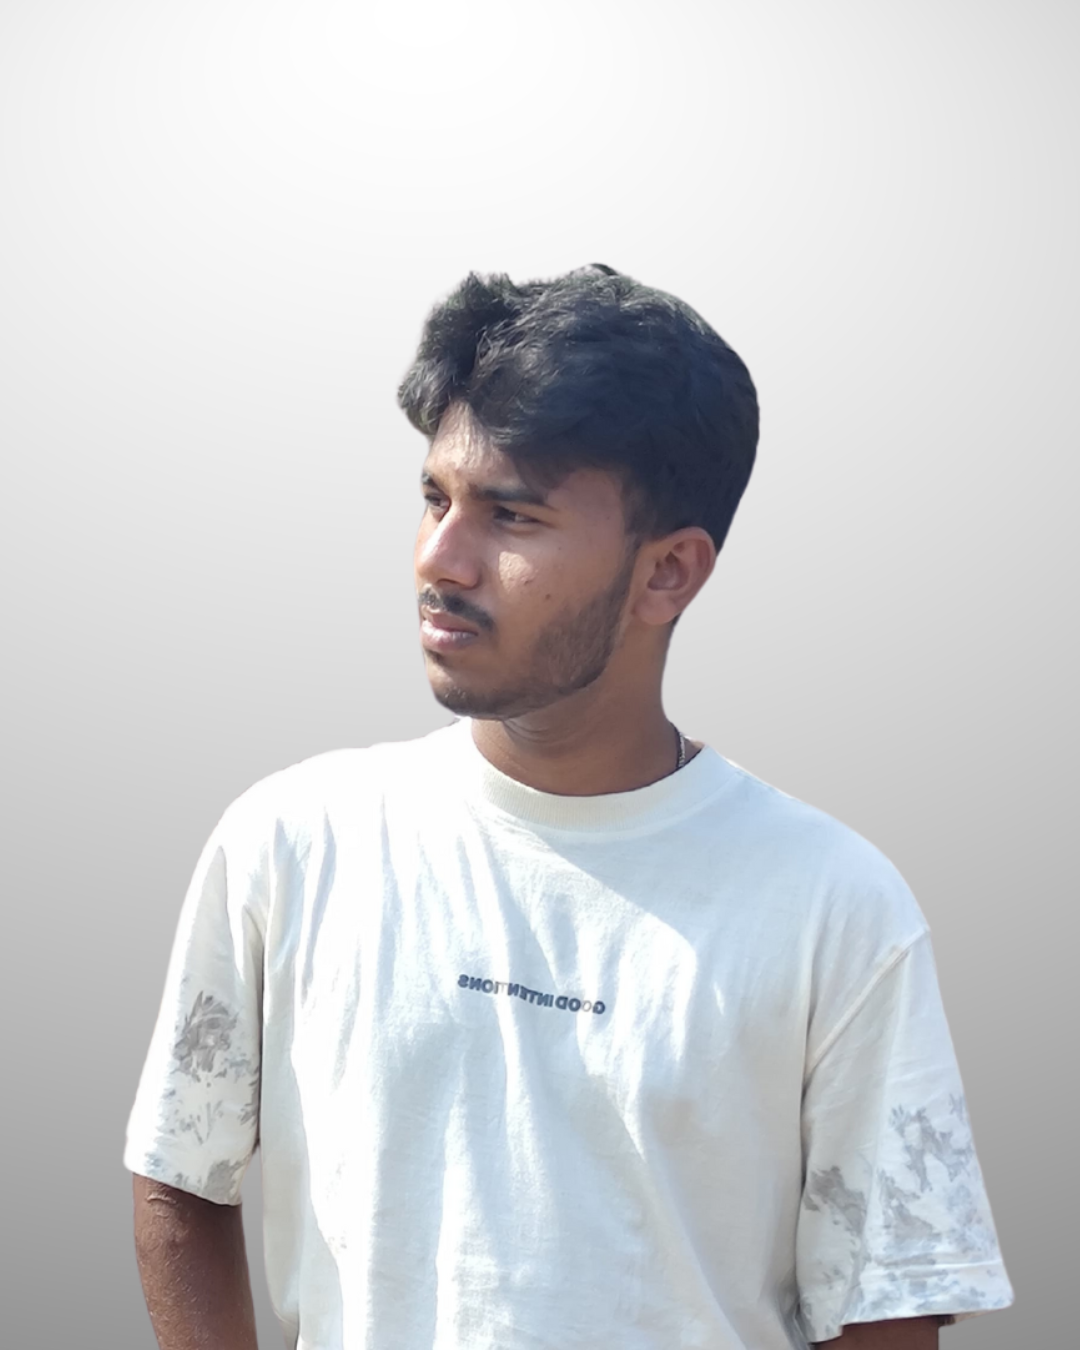
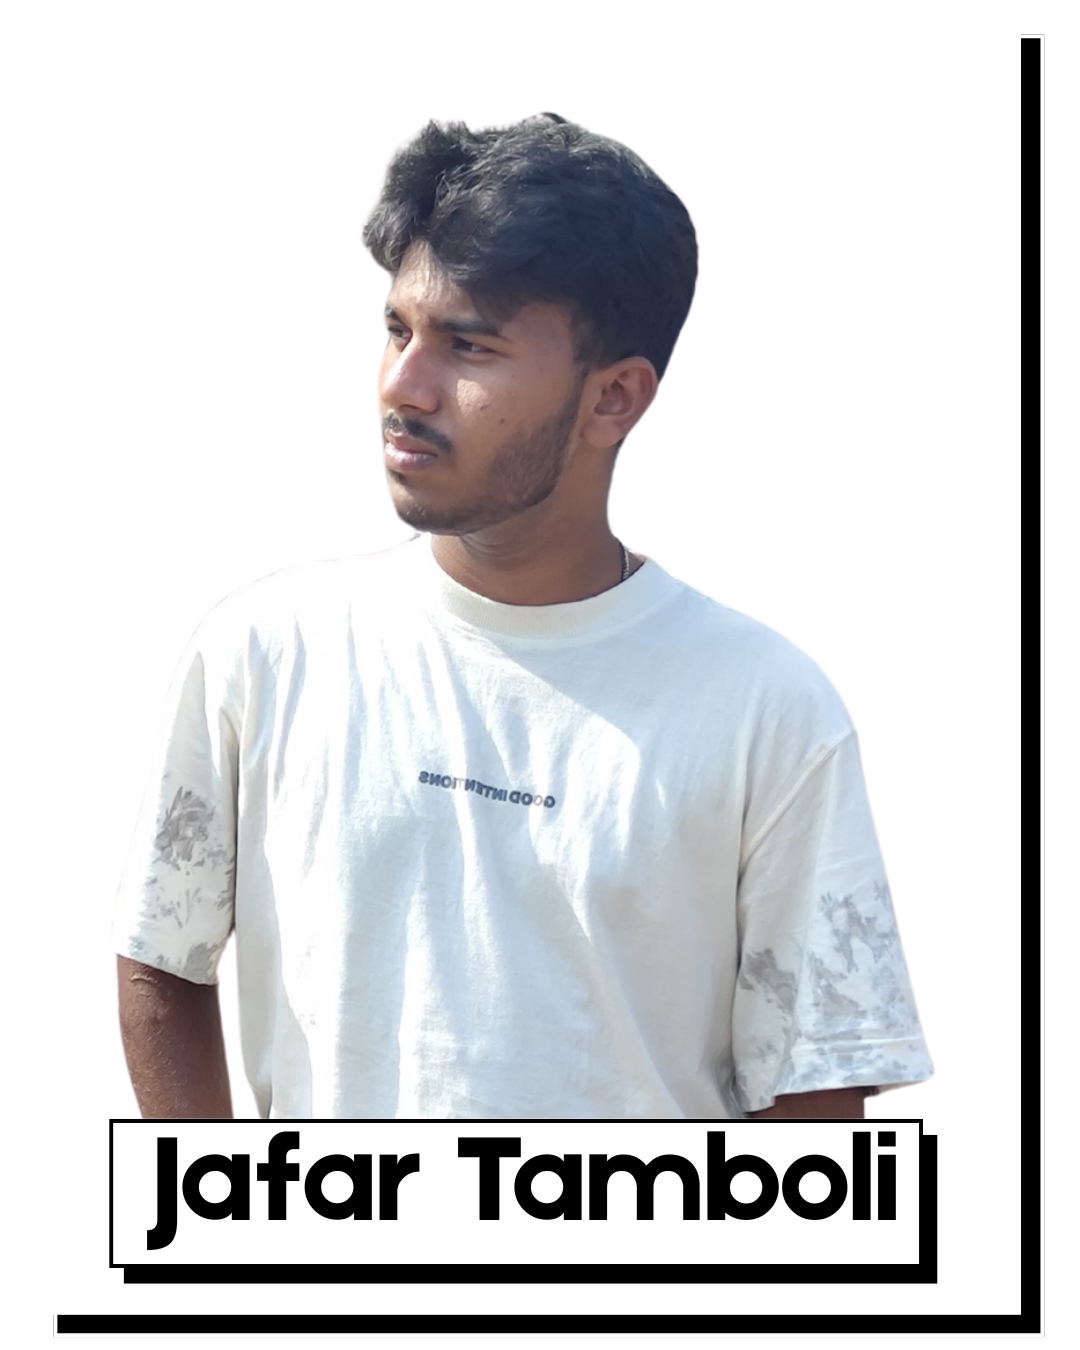
.

diff --git a/index.html b/index.html
@@ -1305,7 +1305,34 @@
             /* Remove background-color to allow video to show */
             background-color: transparent !important;
         }
-    </style>
+    
+.about-flex {
+  display: flex;
+  justify-content: space-between;
+  align-items: center;
+  margin: 0rem 0;
+  gap: 2rem;
+}
+
+.about-image img {
+  width: 360px;
+  height: auto;
+  border-radius: 10px;
+  object-fit: cover;
+}
+
+@media (max-width: 768px) {
+  .about-flex {
+    flex-direction: column;
+    text-align: left;
+  }
+
+  .about-image img {
+    width: 240px;
+  }
+}
+
+</style>
     <!-- Google tag (gtag.js) -->
     <script async src="https://www.googletagmanager.com/gtag/js?id=G-HTHY38SMFZ"></script>
     <script>
@@ -1361,10 +1388,14 @@
             <p1 class="section-title">who am I <span style="color: #880000; font-weight: bolder;">??</span></p1>
             <br>
             <img src="images/qq.png" alt="qq" style="margin-left: 25px; margin-top: 28px; width: 2rem; height: auto; display: block;" />
-            <div class="main-text" style="width:21rem; font-weight: 100;">
+            <div class="about-flex"><div class="main-text" style="width:21rem; font-weight: 100;">
                 I create clean, user-friendly designs and build responsive websites that work beautifully.<br> 
                 <span style="color: #666666;">Still learning, always creating.</span>
-              </div>
+        </div>
+<div class="about-image" style="margin-right: 60px;">
+  <img src="images/profile.png" alt="Your Image">
+</div>
+</div>
                       <br>    
     
 
